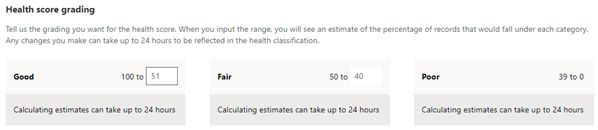
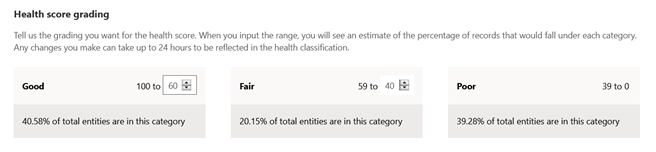
image updated

diff --git a/ai-docs/sales/configure-relationship-analytics.md b/ai-docs/sales/configure-relationship-analytics.md
@@ -53,9 +53,10 @@ To configure relationship analytics, follow these steps:
     > ![Choose communication frequency](media/relationship-analytics-communication-frequency.png  "Choose communication frequency")    
 9.  Set **Health score grading** for health scores to grade opportunities.    
     When health score is calculated, the opportunities that are in your organization's pipeline are graded according to the range defined in this section. Each opportunity in the pipeline is graded Good, Fair, or Poor, according to the health score. Opportunities in the top score range are graded Good while records within the lowest score range are graded Poor.    
-    You can configure the range for the grading according to your organizational requirements. When you change the health score range for a grade, the maximum range value for the adjacent grade changes automatically in accordance with the change in the minimum value. For example, when you change the minimum range value score for Good to 51, the maximum lead score range for Fair changes to 50.    
+    You can configure the range for the grading according to your organizational requirements. When you change the health score range for a grade, the maximum range value for the adjacent grade changes automatically in accordance with the change in the minimum value. For example, when you change the minimum range value score for Good to 60, the maximum lead score range for Fair changes to 59.    
+    After setting the values, the initial grading of opportunities can take up to 24 hours.
     > [!div class="mx-imgBorder"]
-    > ![Set health score greading](media/relationship-analytics-health-score-greading.png  "Set health score greading")    
+    > ![Set health score grading](media/relationship-analytics-health-score-greading.png  "Set health score grading")    
 10. Select **Save**.   
    Relationship analytics is ready to use in your organization.   
 
